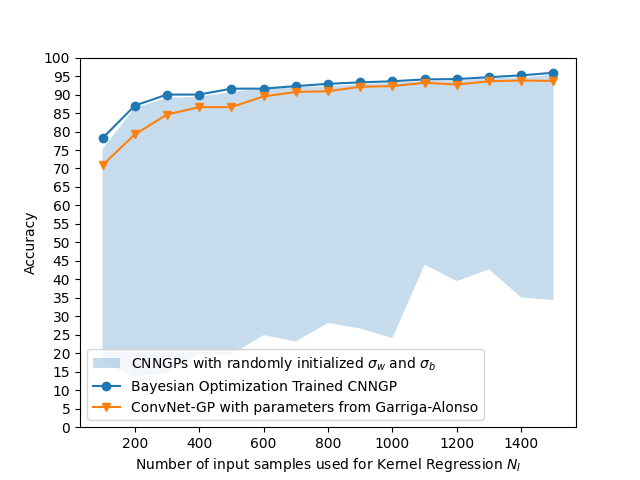
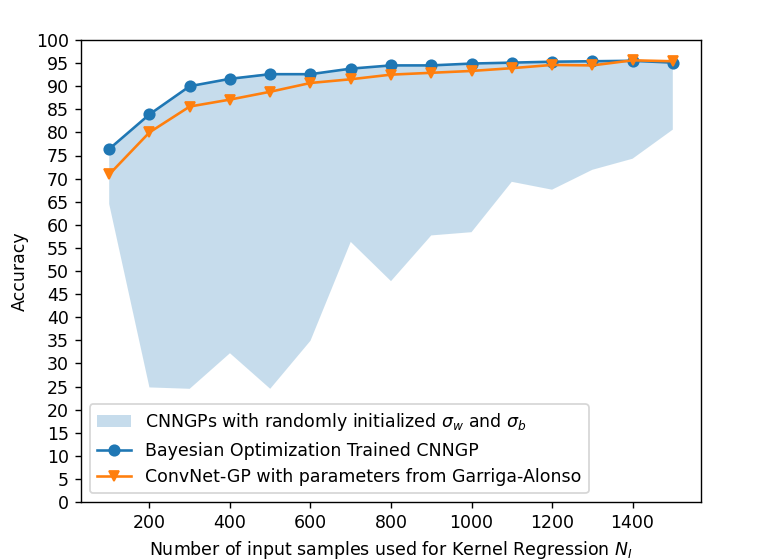
Updated experiments for cpu vs gpu numerical differences

Changed region(s): [[0.0, 0.0625, 0.9375, 1.0]]

diff --git a/exp_kf_cnngp/cpu_vs_gpu_general.py b/exp_kf_cnngp/cpu_vs_gpu_general.py
@@ -2,36 +2,117 @@ import torch
 import numpy as np
 from tqdm import tqdm
 import matplotlib.pyplot as plt
+import time
 # Reference: https://discuss.pytorch.org/t/why-different-results-when-multiplying-in-cpu-than-in-gpu/1356/2
 # Reference: https://stackoverflow.com/questions/70650236/why-does-pytorch-matmul-get-different-results-when-executed-on-cpu-and-gpu
 
-# torch.manual_seed(123)
+torch.manual_seed(int(time.time()))
 
 
-X = torch.rand((2000,2000))
-Y = torch.rand((2000,2000))
+# A = torch.rand((2000,2000))
+# b = torch.rand(2000)
+Ni_min = 1500
+Ni_max = 2100
+step = 100
 
-data_size_arr = np.arange(100, 2100, 100)
-normed_diff = []
+data_size_arr = np.arange(Ni_min, Ni_max, step)
+normed_diff_float64 = []
+normed_diff_matmul_float64 = []
+normed_diff_kerreg_float64 = []
+
+normed_diff_float32 = []
+normed_diff_matmul_float32 = []
+normed_diff_kerreg_float32 = []
+
+normed_diff_float32_vs_float64 = []
+normed_diff_matmul_float32_vs_float64 = []
+normed_diff_kerreg_float32_vs_float64 = []
+
+normed_diff_float32_vs_float64_gpu = []
+normed_diff_matmul_float32_vs_float64_gpu = []
+
 for data_size in tqdm(data_size_arr):
-    x = X[:data_size, :data_size]
-    y = Y[:data_size, :data_size]
-    cpu_matmul = torch.matmul(x,y)
-    cpu_matmul_inv = torch.linalg.inv(cpu_matmul)
+    A_i = torch.rand((data_size,data_size), dtype=torch.float32) #+ 1000
+    B_i = torch.rand((data_size,data_size), dtype=torch.float32) #+ 1000
+    b_i = torch.rand((data_size), dtype=torch.float32)
 
-    gpu_matmul = torch.matmul(x.cuda(),y.cuda())
-    gpu_matmul_inv = torch.linalg.inv(gpu_matmul)
+    # CPU Evaluations Float 64
+    # cpu_matmul_float64 = torch.matmul(A_i.to(torch.float64), B_i.to(torch.float64))
+    cpu_lstsq_float64 = torch.linalg.lstsq(A_i.to(torch.float64), b_i.to(torch.float64), rcond=1e-8).solution
+    # cpu_kg_float64 = torch.matmul(B_i.to(torch.float64), cpu_lstsq_float64)
+    # cpu_lstsq_float64 = torch.matmul(torch.linalg.inv(A_i), b_i)
 
-    # np_matmul = np.matmul(x.numpy(), y.numpy())
-    # np_matmul_inv = np.linalg.inv(np_matmul)
+    # CPU Evaluations Float 32
+    # cpu_matmul_float32 = torch.matmul(A_i, A_i)
+    cpu_lstsq_float32 = torch.linalg.lstsq(A_i, b_i, rcond=1e-8).solution
+    # cpu_kg_float32 = torch.matmul(B_i, cpu_lstsq_float32)
+    # cpu_lstsq_float32 = torch.matmul(torch.linalg.inv(A_i.to(torch.float32)), b_i.to(torch.float32))
 
-    normed_diff.append(torch.linalg.norm(cpu_matmul_inv - gpu_matmul_inv.cpu()))
+    # GPU Evaluations Float 64
+    # gpu_matmul_float64 = torch.matmul(A_i.to(torch.float64).cuda(), B_i.to(torch.float64).cuda())
+    gpu_lstsq_float64 = torch.linalg.lstsq(A_i.to(torch.float64).cuda(), b_i.to(torch.float64).cuda(), rcond=1e-8).solution
+    # gpu_kg_float64 = torch.matmul(B_i.to(torch.float64).cuda(), gpu_lstsq_float64)
+    # gpu_lstsq_float64 = torch.matmul(torch.linalg.inv(A_i.cuda()), b_i.cuda())
+
+    # CPU Evaluations Float 32
+    # gpu_matmul_float32 = torch.matmul(A_i.cuda(), B_i.cuda())
+    gpu_lstsq_float32 = torch.linalg.lstsq(A_i.cuda(), b_i.cuda(), rcond=1e-8).solution
+    # gpu_kg_float32 = torch.matmul(B_i.to(torch.float32).cuda(), gpu_lstsq_float32)
+    # gpu_lstsq_float32 = torch.matmul(torch.linalg.inv(A_i.to(torch.float32).cuda()), b_i.to(torch.float32).cuda())
+
+    # Norm of CPU vs GPU on float 64
+    normed_diff_float64.append(torch.linalg.norm((cpu_lstsq_float64 - gpu_lstsq_float64.cpu())))
+    # normed_diff_matmul_float64.append(torch.linalg.norm((cpu_matmul_float64 - gpu_matmul_float64.cpu()) / cpu_matmul_float64))
+    # normed_diff_kerreg_float64.append(torch.linalg.norm(cpu_kg_float64 - gpu_kg_float64.cpu()))
+    
+    # Norm of CPU vs GPU on float 32
+    normed_diff_float32.append(torch.linalg.norm((cpu_lstsq_float64 - gpu_lstsq_float32.cpu())))
+    # normed_diff_matmul_float32.append(torch.linalg.norm((cpu_matmul_float64 - gpu_matmul_float32.cpu()) / cpu_matmul_float64))
+    # normed_diff_kerreg_float32.append(torch.linalg.norm(cpu_kg_float32 - gpu_kg_float32.cpu()))
+
+    # Norm of CPU float 64 vs float 32
+    normed_diff_float32_vs_float64.append(torch.linalg.norm((cpu_lstsq_float32 - cpu_lstsq_float64)))
+    # normed_diff_matmul_float32_vs_float64.append(torch.linalg.norm((cpu_matmul_float32 - cpu_matmul_float64) / cpu_matmul_float32))
+    # normed_diff_kerreg_float32_vs_float64.append(torch.linalg.norm(cpu_kg_float32 - cpu_kg_float64))
+
+    normed_diff_float32_vs_float64_gpu.append(torch.linalg.norm((gpu_lstsq_float32.cpu() - gpu_lstsq_float64.cpu())))
+    # normed_diff_matmul_float32_vs_float64_gpu.append(torch.linalg.norm((gpu_matmul_float32.cpu() - gpu_matmul_float64.cpu()) / gpu_matmul_float32.cpu()))
 
 fig, ax = plt.subplots(1,1)
-
-ax.bar(data_size_arr, normed_diff, width=100)
+ax.semilogy(data_size_arr, normed_diff_float64, 'o-', label='CPU 64 bit vs GPU 64 bit precision', alpha=0.35)
+ax.semilogy(data_size_arr, normed_diff_float32, '*-', label='CPU 64 bit vs GPU 32 bit precision', alpha=0.35)
+ax.semilogy(data_size_arr, normed_diff_float32_vs_float64, '^-', label='CPU 32 bit vs CPU 64 bit', alpha=0.35)
+ax.semilogy(data_size_arr, normed_diff_float32_vs_float64_gpu, '^-', label='GPU 32 bit vs GPU 64 bit', alpha=0.35)
 ax.set_xlabel("Square matrix height")
-ax.set_ylabel("$||(X*X)^{-1}_{CPU} - (X*X)^{-1}_{GPU}||_F$")
-plt.show()
+ax.set_ylabel("$||A^{-1}_{CPU}b_{CPU} - A^{-1}_{GPU}b_{GPU}||_2$")
+plt.legend()
 plt.tight_layout()
-fig.savefig('./figs/cpu_vs_gpu_matmul_inv_norm.png')
+plt.show()
+# fig.savefig('./figs/cpu_vs_gpu_lstsq_norm.png')
+
+# fig, ax = plt.subplots(1,1)
+# ax.semilogy(data_size_arr, normed_diff_matmul_float64, 'o-', label='CPU vs GPU 64 bit precision', alpha=0.35)
+# ax.semilogy(data_size_arr, normed_diff_matmul_float32, '*-',  label='CPU vs GPU 32 bit precision', alpha=0.35)
+# ax.semilogy(data_size_arr, normed_diff_matmul_float32_vs_float64, '^-',  label='Float 32 vs Float 64 on CPU', alpha=0.35)
+# ax.semilogy(data_size_arr, normed_diff_matmul_float32_vs_float64_gpu, '^-',  label='Float 32 vs Float 64 on GPU', alpha=0.35)
+# ax.set_xlabel("Matrix size N_i")
+# ax.set_ylabel("$||AA_{CPU} - AA_{GPU}||_2$")
+# ax.set_xticks(data_size_arr)
+# ax.set_xticklabels(ax.get_xticks(), rotation = 45)
+# plt.legend()
+# plt.tight_layout()
+# plt.show()
+
+# fig, ax = plt.subplots(1,1)
+# ax.semilogy(data_size_arr, normed_diff_kerreg_float64, 'o-', label='CPU vs GPU 64 bit precision')
+# ax.semilogy(data_size_arr, normed_diff_kerreg_float32, '*-',  label='CPU vs GPU 32 bit precision')
+# ax.semilogy(data_size_arr, normed_diff_kerreg_float32_vs_float64, '^-',  label='Float 32 vs Float 64 on CPU')
+# ax.set_xlabel("Matrix size N_i")
+# ax.set_ylabel("$||AA_{CPU} - AA_{GPU}||_2$")
+# ax.set_xticks(data_size_arr)
+# ax.set_xticklabels(ax.get_xticks(), rotation = 45)
+# plt.legend()
+# plt.tight_layout()
+# plt.show()
+# pass
+# fig.savefig('./figs/cpu_vs_gpu_lstsq_norm.png')

diff --git a/exp_kf_cnngp/cpu_vs_gpu_kernel_regression.py b/exp_kf_cnngp/cpu_vs_gpu_kernel_regression.py
@@ -6,6 +6,7 @@ from tqdm import tqdm
 import absl.app
 import sys
 import os
+import time
 
 sys.path.insert(0, os.getcwd() + '/.')
 
@@ -17,6 +18,10 @@ from configs import kernel_flow_configs
 FLAGS = absl.app.flags.FLAGS
 DEVICE = torch.device('cuda' if torch.cuda.is_available() else 'cpu')
 
+time_seed = int(time.time())
+torch.manual_seed(time_seed)
+# torch.manual_seed(1655044203)
+# 1655044203
 def get_kernel(X: torch.Tensor, Y: torch.Tensor, cnngp: NNGPKernel) -> torch.Tensor:
     """Evaluates the Kernel for given X and Y
 
@@ -32,7 +37,7 @@ def get_kernel(X: torch.Tensor, Y: torch.Tensor, cnngp: NNGPKernel) -> torch.Ten
 
 def main(_):
 
-    X_train, Y_train, X_test, Y_test = get_MNIST_dataset(train_size=50000, val_size=1000, device=DEVICE)
+    X_train, Y_train, X_test, Y_test = get_MNIST_dataset(train_size=50000, val_size=1000, device=DEVICE, shuffle=True)
     cnn_gp = kernel_flow_configs.get_CNNGP(model_name = FLAGS.CNNGP_model, device=DEVICE)
     # Kernel Regression equation is as follows:
     # K(X', X) * (K(X,X)^-1 * Y) 
@@ -41,9 +46,11 @@ def main(_):
 
     # We will evaluate the accuracy for various sizes of N_i i.e. the number
     # of training points used for kernel regression
-    N_i_arr = np.arange(100, 1600, 100)
+    N_i_arr = np.arange(100, 1100, 100)
     cpu_acc = []
     gpu_acc = [] 
+    cpu_acc_float64 = []
+    gpu_acc_float64 = []
     for N_i in tqdm(N_i_arr):
         X_train_Ni = X_train[:N_i]
         Y_train_Ni = Y_train[:N_i]
@@ -53,30 +60,49 @@ def main(_):
             k_x_prime_x = get_kernel(X_test, X_train_Ni, cnngp=cnn_gp)
 
         # CPU evaluation
-        k_inv_Y_cpu = torch.linalg.lstsq(k_xx.cpu(), Y_train_Ni.cpu(), rcond=1e-8).solution
+        # k_inv_Y_cpu = torch.linalg.lstsq(k_xx.cpu(), Y_train_Ni.cpu(), rcond=1e-8).solution
+        k_inv_Y_cpu = torch.matmul(torch.linalg.inv(k_xx.cpu()), Y_train_Ni.cpu())
         prediction_cpu = torch.matmul(k_x_prime_x.cpu(), k_inv_Y_cpu)
         prediction_labels_cpu = get_label_from_probability(prediction_cpu)
         cpu_acc.append(accuracy_score(prediction_labels_cpu, Y_test.cpu().numpy()) * 100)
 
         # GPU evaluation
-        k_inv_Y_gpu = torch.linalg.lstsq(k_xx, Y_train_Ni, rcond=1e-8).solution
+        # k_inv_Y_gpu = torch.linalg.lstsq(k_xx, Y_train_Ni, rcond=1e-8).solution
+        k_inv_Y_gpu = torch.matmul(torch.linalg.inv(k_xx), Y_train_Ni)
         prediction_gpu = torch.matmul(k_x_prime_x, k_inv_Y_gpu)
         prediction_labels_gpu = get_label_from_probability(prediction_gpu)
         gpu_acc.append(accuracy_score(prediction_labels_gpu, Y_test.cpu().numpy()) * 100)
 
+        # CPU evaluation float 64
+        # k_inv_Y_cpu_float64 = torch.linalg.lstsq(k_xx.cpu().to(torch.float64), Y_train_Ni.cpu().to(torch.float64), rcond=1e-8).solution
+        k_inv_Y_cpu_float64 = torch.matmul(torch.linalg.inv(k_xx.cpu().to(torch.float64)), Y_train_Ni.cpu().to(torch.float64))
+        prediction_cpu_float64 = torch.matmul(k_x_prime_x.cpu().to(torch.float64), k_inv_Y_cpu_float64)
+        prediction_labels_cpu_float64 = get_label_from_probability(prediction_cpu_float64)
+        cpu_acc_float64.append(accuracy_score(prediction_labels_cpu_float64, Y_test.cpu().to(torch.float64).numpy()) * 100)
+
+        # GPU evaluation float 64
+        # k_inv_Y_gpu_float64 = torch.linalg.lstsq(k_xx.to(torch.float64), Y_train_Ni.to(torch.float64), rcond=1e-8).solution
+        k_inv_Y_gpu_float64 = torch.matmul(torch.linalg.inv(k_xx.to(torch.float64)), Y_train_Ni.to(torch.float64))
+        prediction_gpu_float64 = torch.matmul(k_x_prime_x.to(torch.float64), k_inv_Y_gpu_float64)
+        prediction_labels_gpu_float64 = get_label_from_probability(prediction_gpu_float64)
+        gpu_acc_float64.append(accuracy_score(prediction_labels_gpu_float64, Y_test.cpu().to(torch.float64).numpy()) * 100)
+
     fig, ax = plt.subplots(1,1)
-    ax.plot(N_i_arr, cpu_acc, '-o', label="Kernel Regression on CPU")
-    ax.plot(N_i_arr, gpu_acc, '-*', label="Kernel Regression on GPU")
+    ax.plot(N_i_arr, cpu_acc, '-o', label="Kernel Regression on CPU with 32 bit precision", alpha=0.35)
+    ax.plot(N_i_arr, gpu_acc, '-*', label="Kernel Regression on GPU with 32 bit precision", alpha=0.35)
+    ax.plot(N_i_arr, cpu_acc_float64, '-^', label="Kernel Regression on CPU with 64 bit precision", alpha=0.35)
+    ax.plot(N_i_arr, gpu_acc_float64, '-^', label="Kernel Regression on GPU with 64 bit precision", alpha=0.35)
     ax.set_xlabel("Number of datapoints used for Kernel Regression: $N_I$")
     ax.set_ylabel("Accuracy")
     ax.set_ylim((0,100))
-    plt.legend()
-    fig.savefig('./figs/cpu_vs_gpu_kernel_regression_accuracy.png')
+    plt.legend(prop={'size': 6})
+    # fig.savefig('./figs/cpu_vs_gpu_kernel_regression_accuracy.png')
     plt.show()
+    pass
 
 if __name__ == '__main__':
     f = absl.app.flags
-    f.DEFINE_string("CNNGP_model", "covnet",
+    f.DEFINE_string("CNNGP_model", "simple",
                     "which CNNGP model to test on")
     absl.app.run(main)
 

diff --git a/exp_kf_cnngp/kernel_flow_finite_difference.py b/exp_kf_cnngp/kernel_flow_finite_difference.py
@@ -39,12 +39,12 @@ def main(_):
     else:
         mean_accuracy = 100.0
         for i in range(5):
-            cnn_gp = kernel_flow_configs.get_CNNGP(model_name = FLAGS.CNNGP_model, device=DEVICE)
+            cnn_gp_temp = kernel_flow_configs.get_CNNGP(model_name = FLAGS.CNNGP_model, device=DEVICE)
             rand_acc = []
-            print(f"""Parameters: var_weight = {cnn_gp.var_weight}, var_bias = {cnn_gp.var_bias}""")
+            print(f"""Parameters: var_weight = {cnn_gp_temp.var_weight}, var_bias = {cnn_gp_temp.var_bias}""")
             for N_i in tqdm(N_i_arr):
                 Y_predictions_rand_cnngp = KernelFlowsTorch.kernel_regression(X_test=X_test, X_train=X_train[:N_i], 
-                                                                                            Y_train=Y_train[:N_i], kernel=cnn_gp, 
+                                                                                            Y_train=Y_train[:N_i], kernel=cnn_gp_temp, 
                                                                                             regularization_lambda=0.0001, blocksize=250, 
                                                                                             device=DEVICE)
 
@@ -52,20 +52,23 @@ def main(_):
                 rand_acc.append(accuracy_score(Y_predictions_rand_cnngp_labels, Y_test.cpu().numpy()) * 100)
             if mean_accuracy > np.mean(rand_acc):
                 mean_accuracy = np.mean(rand_acc)
-                cnn_gp = copy.deepcopy(cnn_gp)
+                cnn_gp = copy.deepcopy(cnn_gp_temp)
             rand_acc_matrix.append(np.array(rand_acc))
 
         rand_acc_matrix = np.array(rand_acc_matrix)
         rand_min = rand_acc_matrix.min(axis=0)
         rand_max = rand_acc_matrix.max(axis=0)
+        plt.fill_between(N_i_arr, rand_min, rand_max, alpha=0.25, label='CNNGPs with randomly initialized $\sigma_w$ and $\sigma_b$')
+        plt.show()
 
     # Optimizing via finite difference
     KF_finite_diff = KernelFlowsTorch(cnn_gp, device=DEVICE, regularization_lambda=1e-4)
     start = time.time()
-    KF_finite_diff.fit(X_train, Y_train, iterations=500, batch_size=600,
+    iteration_count = 500
+    KF_finite_diff.fit(X_train, Y_train, iterations=iteration_count, batch_size=600,
                             sample_proportion=0.5, method='finite difference')
     stop = time.time()
-    print(f"""Finite Difference took {stop - start} seconds to fit for 50 iterations. One iteration took on average {(stop - start) / 50} seconds""")
+    print(f"""Finite Difference took {stop - start} seconds to fit for {iteration_count} iterations. One iteration took on average {(stop - start) / iteration_count} seconds""")
 
     fig, ax = plt.subplots(1,1)
     ax.plot(KF_finite_diff.rho_values)

diff --git a/exp_kf_cnngp/kernel_flow_bayesian_optimization.py b/exp_kf_cnngp/kernel_flow_bayesian_optimization.py
@@ -53,22 +53,23 @@ def main(_):
             if mean_accuracy > np.mean(rand_acc):
                 mean_accuracy = np.mean(rand_acc)
                 cnn_gp = copy.deepcopy(cnn_gp_temp)
-
             rand_acc_matrix.append(np.array(rand_acc))
 
         rand_acc_matrix = np.array(rand_acc_matrix)
         rand_min = rand_acc_matrix.min(axis=0)
         rand_max = rand_acc_matrix.max(axis=0)
-      
+        plt.fill_between(N_i_arr, rand_min, rand_max, alpha=0.25, label='CNNGPs with randomly initialized $\sigma_w$ and $\sigma_b$')
+        plt.show()
     # Training with Bayesian Optimization
     parameter_bounds = [(1e-3, 200.0), (0.0, 200.0)]
     KF_BO = KernelFlowsTorch(cnn_gp, device=DEVICE, regularization_lambda=1e-4)
+    iteration_count = 50
     start = time.time()
-    res = KF_BO.fit(X_train, Y_train, iterations=50, batch_size=1200, 
+    res = KF_BO.fit(X_train, Y_train, iterations=iteration_count, batch_size=1200, 
                     sample_proportion=0.5, parameter_bounds_BO=parameter_bounds, 
-                    random_starts=25, method='bayesian optimization')
+                    random_starts=iteration_count // 2, method='bayesian optimization')
     stop = time.time()
-    print(f"""Bayesian Optimization took {stop - start} seconds to fit for 50 iterations. One iteration took on average {(stop - start) / 50} seconds""")
+    print(f"""Bayesian Optimization took {stop - start} seconds to fit for {iteration_count} iterations. One iteration took on average {(stop - start) / iteration_count} seconds""")
 
     fig, ax = plt.subplots(1,1)
     plot_convergence(res, ax=ax)
@@ -106,7 +107,7 @@ def main(_):
                                                                                     device=DEVICE)
             Y_predictions_trained_labels = np.argmax(Y_predictions_trained.cpu(), axis=1)
             convnet_alonso_etal_acc.append(accuracy_score(Y_predictions_trained_labels, Y_test.cpu().numpy()) * 100)
-        ax.plot(N_i_arr, convnet_alonso_etal_acc, '-v', label='ConvNet-GP with parameters from Garriga-Alonso')
+        ax.plot(N_i_arr, convnet_alonso_etal_acc, '-v', label='ConvNet-GP with parameters from Garriga-Alonso et al')
 
     ax.set_xlabel("Number of input samples used for Kernel Regression $N_I$")
     ax.set_ylabel("Accuracy")

diff --git a/exp_kf_cnngp/kernel_flow_autograd.py b/exp_kf_cnngp/kernel_flow_autograd.py
@@ -1,3 +1,4 @@
+import time
 import torch
 import numpy as np
 import matplotlib.pyplot as plt
@@ -36,13 +37,17 @@ def main(_):
         Y_predictions_rand_cnngp_labels = get_label_from_probability(Y_predictions_rand_cnngp)
         rand_acc.append(accuracy_score(Y_predictions_rand_cnngp_labels, Y_test.cpu().numpy()) * 100)
 
-    plt.plot(rand_acc)
-    plt.ylim((0,100))
-    plt.show()
+    # plt.plot(rand_acc)
+    # plt.ylim((0,100))
+    # plt.show()
 
     KF_autograd = KernelFlowsTorch(cnn_gp, device=DEVICE, regularization_lambda=1e-4)
-    KF_autograd.fit(X_train, Y_train, iterations=1000, batch_size=600,
+    iteration_count = 1000
+    start = time.time()
+    KF_autograd.fit(X_train, Y_train, iterations=iteration_count, batch_size=600,
                             sample_proportion=0.5, method='autograd')
+    stop = time.time()
+    print(f"""Automatic Differentiation took {stop - start} seconds to fit for {iteration_count} iterations. One iteration took on average {(stop - start) / iteration_count} seconds""")
 
     fig, ax = plt.subplots(1,1)
     ax.plot(KF_autograd.rho_values)
@@ -53,7 +58,7 @@ def main(_):
     ax.set_ylim((0, 1))
     plt.legend()
     plt.show()
-    fig.savefig('./figs/autograd_rho_' + FLAGS.CNNGP_model + "_" + FLAGS.dataset + '.png')
+    # fig.savefig('./figs/autograd_rho_' + FLAGS.CNNGP_model + "_" + FLAGS.dataset + '.png')
 
     print(f"""Final Parameters: var_weight = {cnn_gp.var_weight}, var_bias = {cnn_gp.var_bias}""")
 
@@ -77,7 +82,7 @@ def main(_):
     plt.yticks(np.arange(0, 101, 5.0))
     plt.legend()
     plt.show()
-    fig.savefig('./figs/autograd_accuracy_' + FLAGS.CNNGP_model + "_" + FLAGS.dataset + '.png')
+    # fig.savefig('./figs/autograd_accuracy_' + FLAGS.CNNGP_model + "_" + FLAGS.dataset + '.png')
 
 if __name__ == '__main__':
     f = absl.app.flags

diff --git a/configs/kernel_flow_configs.py b/configs/kernel_flow_configs.py
@@ -9,8 +9,8 @@ def get_CNNGP(model_name: str = 'convnet', device: str = 'cpu')-> NNGPKernel:
         NNGPKernel: CNNGP Kernel
     """
     np.random.seed(int(time.time()))
-    var_weight = np.random.rand()*200.0
-    var_bias = np.random.rand()*200.0    
+    var_weight = np.random.rand()*100.0
+    var_bias = np.random.rand()*100.0    
     if model_name == 'convnet':
         print("Selected ConvNet-GP")
         layers = []
